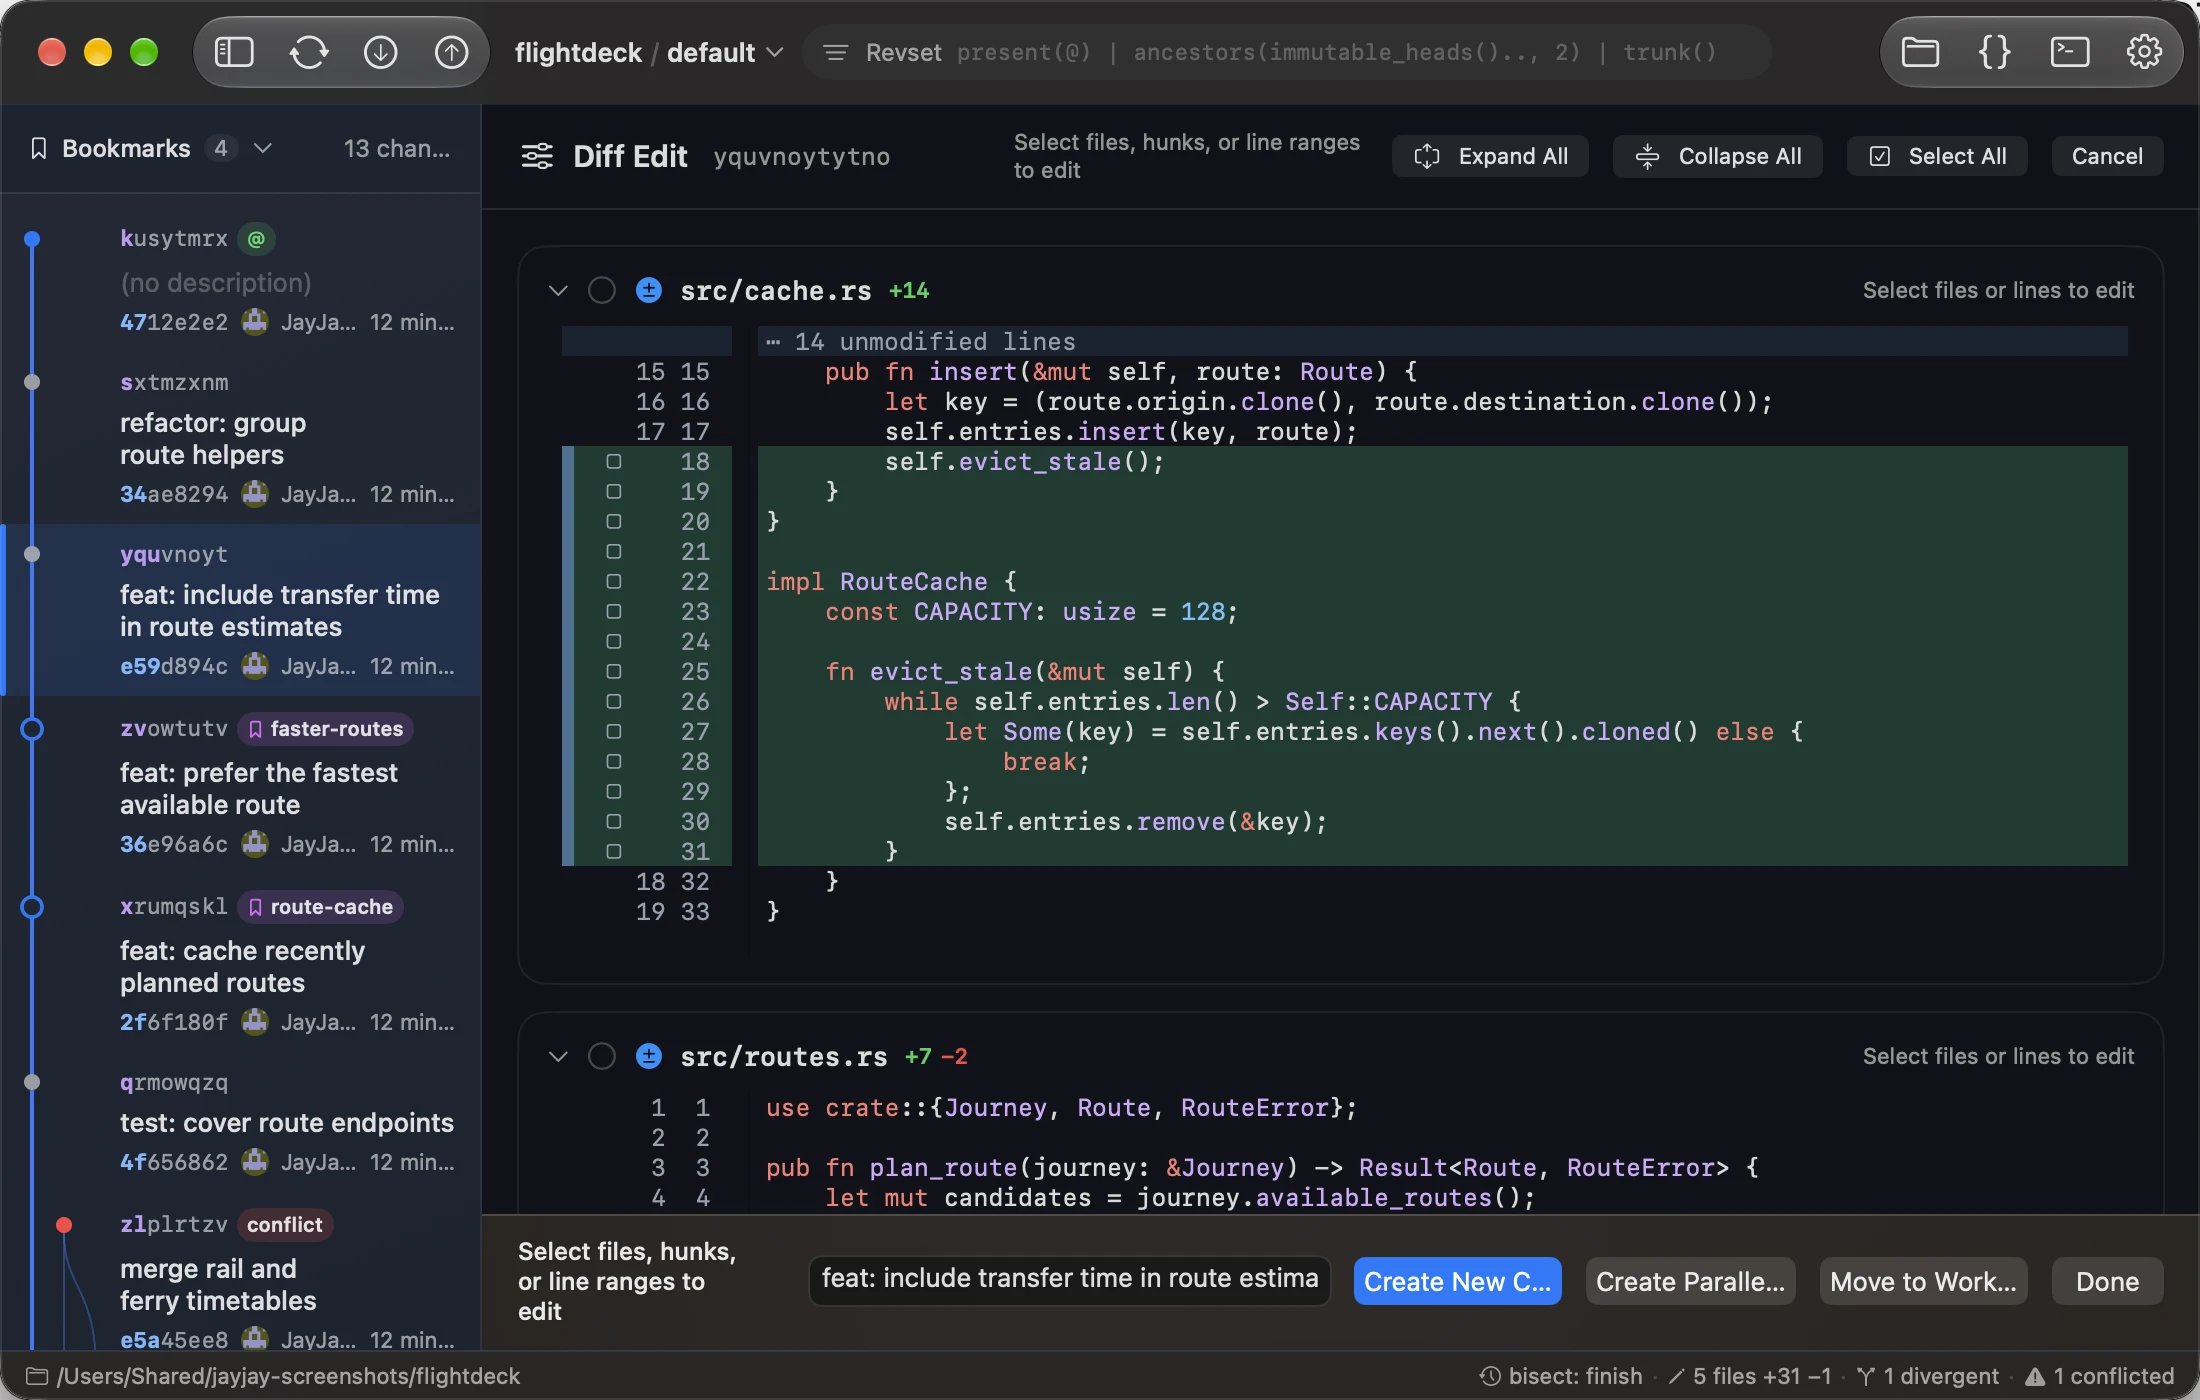
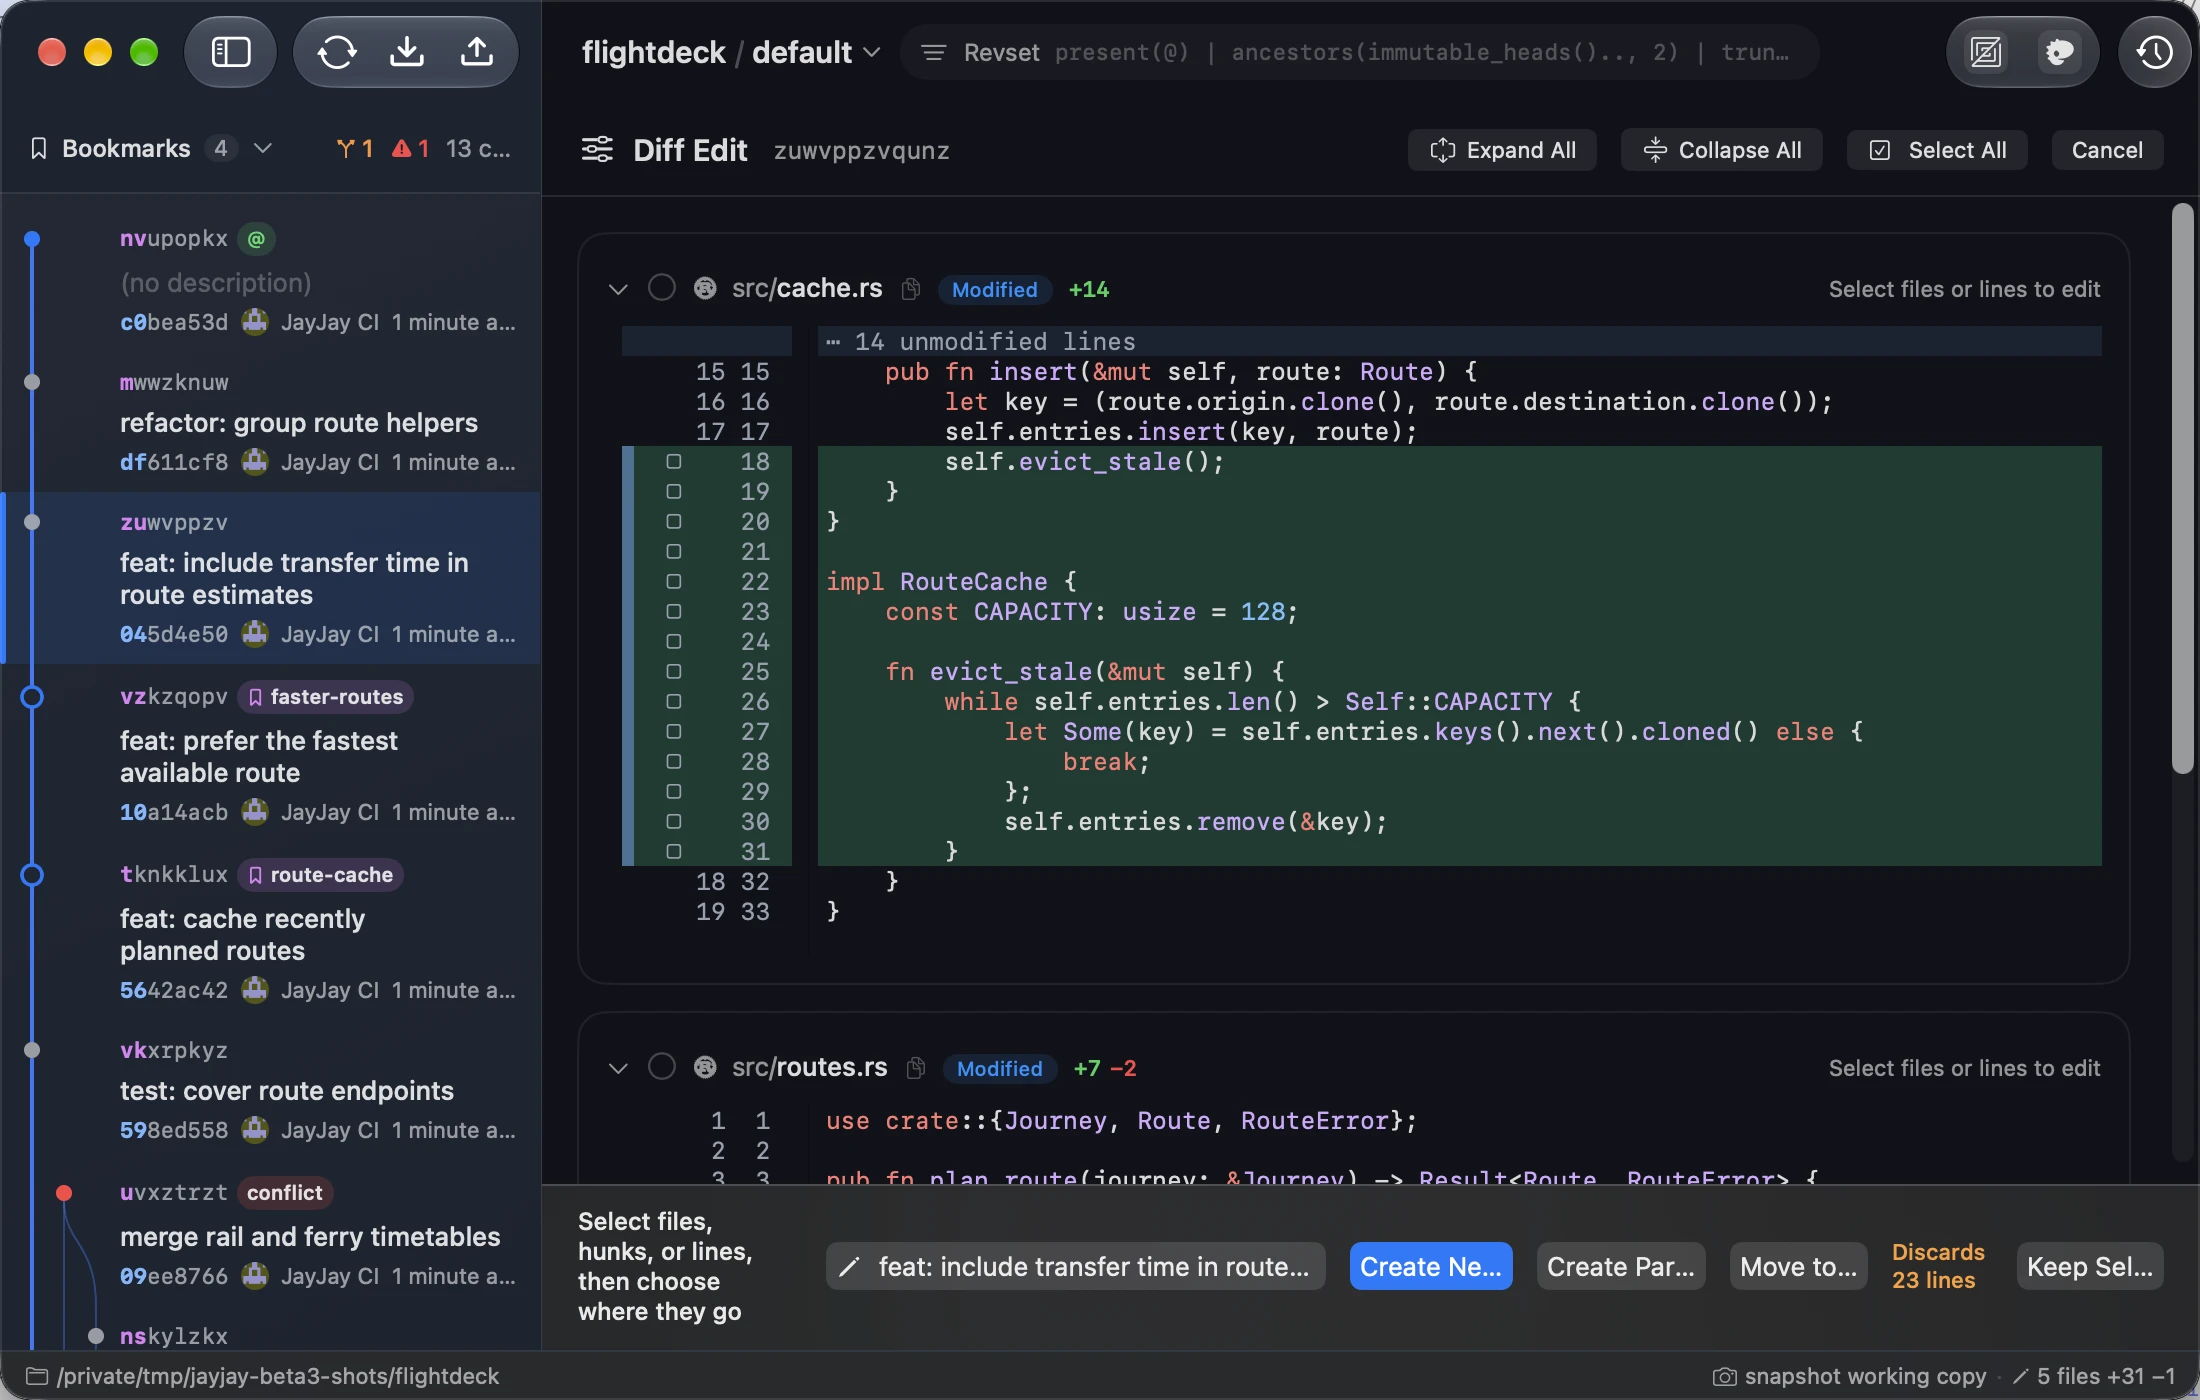
release: 0.3.25-beta.3 (build 91)

diff --git a/docs/guide.html b/docs/guide.html
@@ -174,7 +174,7 @@
         <li>The working copy is always in review mode. Other mutable changes start with review mode off unless they already have review marks or notes; turn it on per change with the review-mode button in the file column header, <strong>Repository &gt; Review Mode</strong>, or <strong>Toggle Review Mode</strong> in the command palette. With review mode off, file rows show their change type instead of review marks, the header shows the plain file count, and Mark Reviewed, Space marking, and hiding reviewed files are off; notes still show. Marking a file keeps the change in review mode, and clearing or pruning its review data drops the choice.</li>
         <li>In the tree file list, right-click a folder to mark its listed files reviewed, or unreviewed when all are reviewed. In <strong>Settings &gt; Data &amp; Privacy</strong>, <strong>Prune…</strong> removes review data for changes that are no longer mutable in recent repositories; a repository that cannot be checked keeps its data.</li>
         <li>Toggle between unified and side-by-side diffs, and browse changed files as a flat list or a tree. The file column header puts its controls first and one count last: filter matches while filtering, review progress once a file is reviewed, otherwise the file total.</li>
-        <li>Choose Unified or Side-by-side in the change header. Use <strong>Edit Diff</strong> there to select individual lines. The file header shows the file name, change type, line counts and available file actions.</li>
+        <li>Choose Unified or Side-by-side in the change header. Use <strong>Edit Diff</strong> there to select individual lines. The file header shows the file name, change type, line counts and available file actions. In a stacked diff, use the disclosure arrow to fold or expand that file.</li>
         <li>On macOS, select multiple files to read their diffs in one scrolling list. To select all listed files, focus the file list and press <kbd>⌘A</kbd> on macOS or <kbd>Ctrl+A</kbd> on Linux and Windows. To open each change this way, enable <strong>Show all files’ diffs in one list</strong> in Diff settings.</li>
         <li>Tabs occupy four visual cells when wrapping and selecting diff text; GPUI displays them as four spaces, including on Windows.</li>
         <li>Moved code is marked with linked line-number badges in unified and side-by-side diffs. Click a badge to jump to the matching block in the same file; the destination is briefly highlighted.</li>
@@ -254,7 +254,7 @@
         <li>Diff edit mode lets you select files, hunks, or line ranges from the working copy or another mutable change.</li>
         <li>Each file card shows its +/− line counts and collapses in place. Large diffs start collapsed so the file list stays scannable, and Expand All / Collapse All (<kbd>Cmd+Option+E</kbd> / <kbd>Cmd+Option+C</kbd>) toggle every file at once.</li>
         <li>The whole view is keyboard-driven: <kbd>j</kbd> / <kbd>k</kbd> or <kbd>↑</kbd> / <kbd>↓</kbd> move focus between file cards, <kbd>←</kbd> / <kbd>→</kbd> collapse or expand the focused card, <kbd>Return</kbd> toggles it, and <kbd>Space</kbd> selects its changed lines.</li>
-        <li>Selected edits can become a child change, a parallel change, or be moved into the working copy. Working-copy edits can be discarded at selected line granularity.</li>
+        <li>In the working copy, check the lines to commit and choose <strong>Commit Selected</strong>. The checked lines become a new parent and the remaining edits stay in the working copy. <strong>Keep Selected</strong> discards the unchecked editable lines after confirmation. When editing another mutable change, you can extract checked lines into a child change, a parallel change, or the working copy.</li>
         <li>Batch split can use reviewed files as the selection model. Split supports a parallel option when the selected edits should become a sibling instead of a child; to turn existing changes into siblings, select them and use <a href="#navigate">Parallelize</a>.</li>
         <li>From the file list, split selected files directly from any mutable change or move selected historical files into the working copy. Commit File and Delete from Disk remain working-copy-only actions.</li>
         <li>Topology-aware destinations preserve the intended jj graph shape when moving edits.</li>

diff --git a/shell/mac/Resources/JayJayHelpBook/Contents/Resources/English.lproj/topics/split.html b/shell/mac/Resources/JayJayHelpBook/Contents/Resources/English.lproj/topics/split.html
@@ -37,11 +37,12 @@
       <li>To split whole files, select them in the file list, right-click, and choose <strong>Split to New Change</strong> (or <strong>Split N Files to New Change</strong>). Enter a description in the sheet, optionally turn on <strong>Parallel split</strong>, and choose <strong>Split</strong>. You can also mark files reviewed with Space and use the split button above the file list to split those checked files.</li>
       <li>In diff edit mode for a change other than <code>@</code>, enter a new description and choose <strong>Create New Child Change</strong> or <strong>Create Parallel Change</strong> to extract the checked edits. <strong>Move to Working Copy</strong> extracts them into <code>@</code>. The extracted edits leave the source change.</li>
       <li>A child change builds on the source; a parallel change shares its parents. To turn existing changes into siblings, select them in the graph and choose <strong>Parallelize</strong>.</li>
-      <li><strong>Done</strong> keeps the checked edits in the source and discards its unchecked editable edits, including edits in unopened file cards. This is the apply action available when editing <code>@</code>. Choose <strong>Cancel</strong> or press <code>Esc</code> to close without applying. Projected, renamed, and non-text files are preview-only. To recover a repository edit, use <a href="operations.html">the operation log</a>.</li>
+      <li>When editing <code>@</code>, choose <strong>Commit Selected</strong> to put the checked lines in a new parent and leave the remaining edits in the working copy.</li>
+      <li><strong>Keep Selected</strong> keeps the checked edits in the source and discards its unchecked editable edits, including edits in unopened file cards. Choose <strong>Cancel</strong> or press <code>Esc</code> to close without applying. Projected, renamed, and non-text files are preview-only. To recover a repository edit, use <a href="operations.html">the operation log</a>.</li>
       <li>From the command line, <code>jj split --tool jayjay</code> opens the same blocking multi-file, line-selectable editor. Use <code>jj diff --tool jayjay</code> or a configured <code>git difftool --dir-diff</code> for a read-only directory comparison. See <a href="conflicts.html">external tool configuration</a> for the required CLI setup.</li>
     </ul>
     <div class="shot">
-      <img src="../imgs/diff-edit.jpg" alt="JayJay diff edit mode selecting hunks to split" width="2560" height="1300" />
+      <img src="../imgs/diff-edit.jpg" alt="JayJay diff edit mode selecting hunks to split" width="2200" height="1400" />
       <p class="caption">Diff edit mode lets you select files, hunks, or individual lines from the working copy or another mutable change.</p>
     </div>
     <p><a href="../Start.html">Back to JayJay Help</a> · <a href="https://jayjay.hewig.dev/guide.html#diff-edit">Online guide with screenshots</a></p>

diff --git a/shell/mac/Resources/JayJayHelpBook/Contents/Resources/English.lproj/topics/review.html b/shell/mac/Resources/JayJayHelpBook/Contents/Resources/English.lproj/topics/review.html
@@ -36,7 +36,7 @@
       <li>The working copy is always in review mode. Other mutable changes start with review mode off unless they already have review marks or notes. To review one, select it and click the review-mode button in the file list header, choose <strong>Repository &gt; Review Mode</strong>, or run <strong>Toggle Review Mode</strong> from the command palette. With review mode off, file rows show their change type instead of review marks, the header shows the plain file count, and Mark Reviewed, <code>Space</code> marking, and hiding reviewed files are off; notes still show. Marking a file keeps the change in review mode.</li>
       <li>File rows show the folder under the file name; files at the repository root have no second line, and a move shows its full source and destination. A change with no files shows <strong>No Files Changed</strong> instead of the file list. When a change has files but none are listed, the detail names the cause, such as a filter with no match or hidden reviewed files, and offers a link that undoes it.</li>
       <li>In the tree file list, right-click a folder to mark its listed files reviewed, or unreviewed when all are reviewed. <strong>Settings &gt; Data &amp; Privacy &gt; Prune…</strong> removes review data for changes that are no longer mutable in recent repositories.</li>
-      <li>Choose Unified or Side-by-side in the change header. Use <strong>Edit Diff</strong> there to select individual lines. The file header shows the file name, change type, line counts and available file actions.</li>
+      <li>Choose Unified or Side-by-side in the change header. Use <strong>Edit Diff</strong> there to select individual lines. The file header shows the file name, change type, line counts and available file actions. In a stacked diff, use the disclosure arrow to fold or expand that file.</li>
       <li>Select multiple files to read their diffs in one scrolling list. With the file list focused, press <kbd>⌘A</kbd> to select all listed files. To open each change this way, enable <strong>Show all files’ diffs in one list</strong> in Diff settings.</li>
       <li>The file list header puts its controls first and one count last: filter matches while filtering, review progress once a file is reviewed, otherwise the file total.</li>
       <li>Tabs occupy four visual cells when wrapping and selecting diff text.</li>

diff --git a/releases/0.3.25-beta.3.html b/releases/0.3.25-beta.3.html
@@ -1,0 +1,11 @@
+<h2>Commit part of the working copy</h2>
+<ul>
+  <li>Open <strong>Edit Diff</strong>, check the lines you want to commit, add a description, and choose <strong>Commit Selected</strong>. The checked lines become a new parent change. The remaining edits stay in your working copy.</li>
+  <li>If the working copy moves while the editor is open, JayJay asks you to select it again. With whitespace ignored, whitespace-only changes in surrounding lines stay out of the selected change.</li>
+</ul>
+
+<h2>Read stacked diffs</h2>
+<ul>
+  <li>Fold individual files in a stacked diff to focus on the ones you are reading. Folded files stay folded when the selected change is rewritten. Large diffs and unavailable previews take up a single compact row.</li>
+  <li>The description editor opens larger and can be resized. Toolbar hints appear after one second, and the sidebar hint appears over its own button.</li>
+</ul>

diff --git a/releases/0.3.25-beta.3-gpui.md b/releases/0.3.25-beta.3-gpui.md
@@ -1,0 +1,4 @@
+- In **Edit Diff**, choose **Commit Selected** to commit the checked working-copy lines and leave the remaining edits in place. If the working copy moves before you apply, reopen it to make a fresh selection.
+- With whitespace ignored, whitespace-only edits in the surrounding context stay out of the selected change.
+- Fold individual files in stacked diffs. Large diffs and unavailable previews occupy one compact row.
+- The description editor opens larger. Drag its corner to make room for a longer message.
